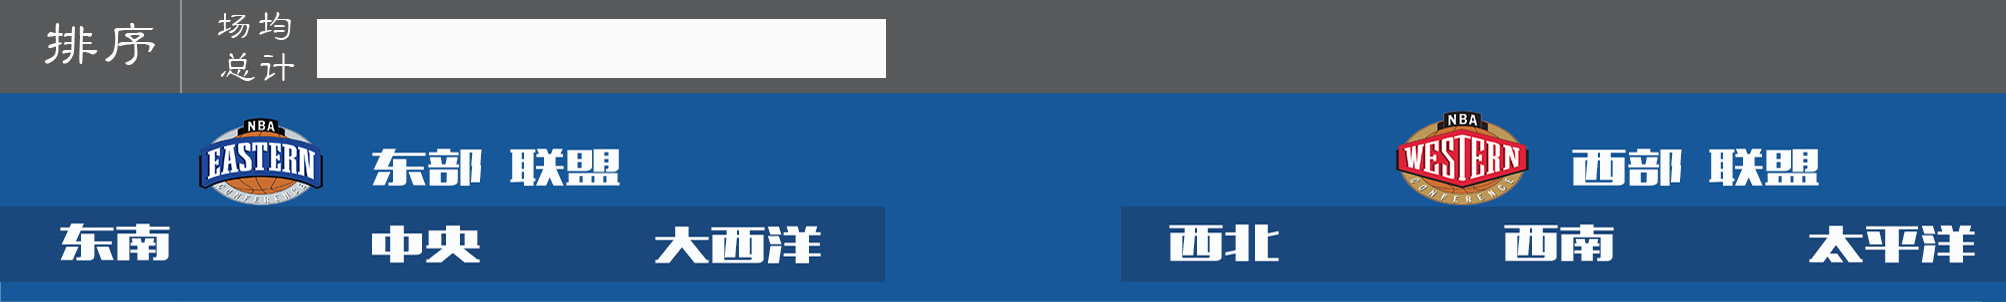
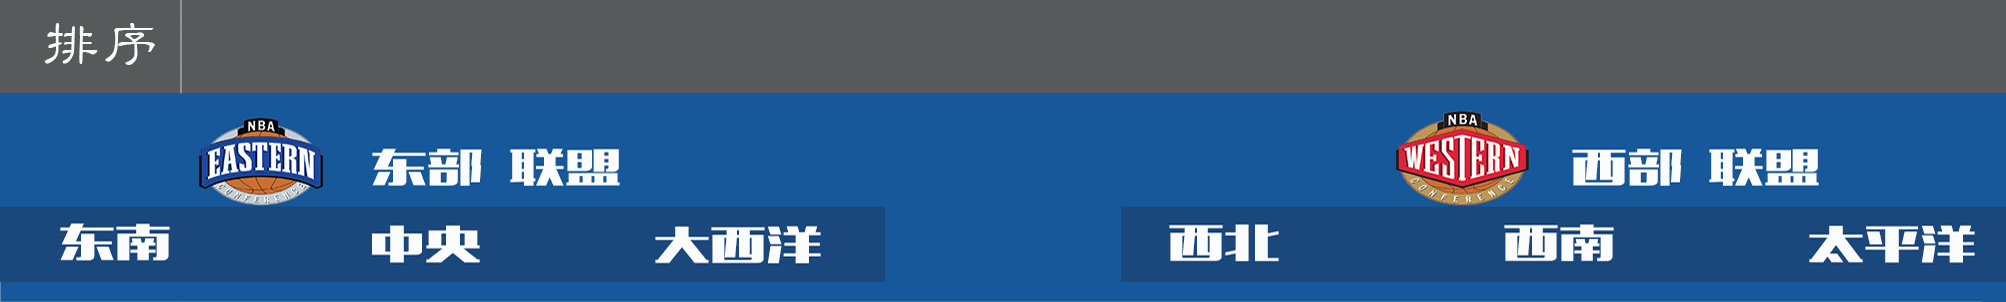
迭代一完结

Changed region(s): [[0.0927, 0.0596, 0.4636, 0.2682]]

diff --git a/src/com/kmno4/presentation/TeamSelectionPanel.java b/src/com/kmno4/presentation/TeamSelectionPanel.java
@@ -2,10 +2,11 @@ package com.kmno4.presentation;
 
 import java.awt.Color;
 import java.awt.Graphics;
+import java.awt.event.ActionEvent;
+import java.awt.event.ActionListener;
 import java.awt.event.MouseEvent;
 import java.awt.event.MouseListener;
 import java.util.ArrayList;
-import java.util.List;
 
 import javax.swing.JComboBox;
 import javax.swing.JLabel;
@@ -18,7 +19,7 @@ import PO.TeamPO;
 import com.kmno4.common.Config;
 
 @SuppressWarnings("serial")
-public class TeamSelectionPanel extends JPanel implements MouseListener{
+public class TeamSelectionPanel extends JPanel implements MouseListener,ActionListener{
 
 	private boolean isAvg=true;
 
@@ -41,14 +42,16 @@ public class TeamSelectionPanel extends JPanel implements MouseListener{
 		cb_total_data.setBounds(127, 11, 150, 27);
 		this.add(cb_avg_data);
 		this.add(cb_total_data);
-		cb_avg_data.setVisible(true);
+		cb_avg_data.setVisible(false);
 		cb_total_data.setVisible(false);
+		cb_total_data.addActionListener(this);
+		cb_avg_data.addActionListener(this);
 		
 		total_sort=new JLabel("总计");
-		total_sort.setBounds(85, 11, 41, 16);
+		total_sort.setBounds(85, 5, 40, 15);
 		total_sort.addMouseListener(this);
 		avg_sort=new JLabel("场均");
-		avg_sort.setBounds(85, 26, 41, 16);
+		avg_sort.setBounds(85, 20, 40, 15);
 		avg_sort.addMouseListener(this);
 		add(avg_sort);
 		add(total_sort);
@@ -81,18 +84,6 @@ public class TeamSelectionPanel extends JPanel implements MouseListener{
 			showTotal();
 		}if(e.getSource()==avg_sort){
 			showAvg();
-		}if(e.getSource()==cb_total_data){
-			//总数据
-			String data=cb_total_data.getSelectedItem().toString();
-			TeamData dataType=TransferSortHelper.StringToDataTypeForTeam(data);
-			ArrayList<TeamPO> teams=MainFrame.mainFrame.bl.sortTeamsOf13_14ByComprehension("total", dataType);
-			MainFrame.mainFrame.topTabPanel.refreshTeamTable(teams);
-		}if(e.getSource()==cb_avg_data){
-			//场均数据
-			String data=cb_avg_data.getSelectedItem().toString();
-			TeamData dataType=TransferSortHelper.StringToDataTypeForTeam(data);
-			ArrayList<TeamPO> teams=MainFrame.mainFrame.bl.sortTeamsOf13_14ByComprehension("avg", dataType);
-			MainFrame.mainFrame.topTabPanel.refreshTeamTable(teams);
 		}
 	}
 
@@ -118,5 +109,23 @@ public class TeamSelectionPanel extends JPanel implements MouseListener{
 	public void mouseExited(MouseEvent e) {
 		// TODO Auto-generated method stub
 		
+	}
+
+	@Override
+	public void actionPerformed(ActionEvent e) {
+		// TODO Auto-generated method stub
+		if(e.getSource()==cb_total_data){
+			//总数据
+			String data=cb_total_data.getSelectedItem().toString();
+			TeamData dataType=TransferSortHelper.StringToDataTypeForTeam(data);
+			ArrayList<TeamPO> teams=MainFrame.mainFrame.bl.sortTeamsOf13_14ByComprehension("total", dataType);
+			MainFrame.mainFrame.topTabPanel.refreshTeamTable(teams);
+		}if(e.getSource()==cb_avg_data){
+			//场均数据
+			String data=cb_avg_data.getSelectedItem().toString();
+			TeamData dataType=TransferSortHelper.StringToDataTypeForTeam(data);
+			ArrayList<TeamPO> teams=MainFrame.mainFrame.bl.sortTeamsOf13_14ByComprehension("avg", dataType);
+			MainFrame.mainFrame.topTabPanel.refreshTeamTable(teams);
+		}
 	}
 }

diff --git a/src/com/kmno4/presentation/SelectionPanel.java b/src/com/kmno4/presentation/SelectionPanel.java
@@ -143,9 +143,9 @@ public class SelectionPanel extends JPanel implements MouseListener,
 				.setBounds(200, 45, Config.SORT_WIDTH * 2, Config.SORT_HEIGHT);
 		avg_sort.addMouseListener(this);
 		total_sort.addMouseListener(this);
-		cb_avg_sort_data.setBounds(15, 70, Config.SORT_WIDTH * 4,
+		cb_avg_sort_data.setBounds(15, 70, Config.SORT_WIDTH * 8,
 				Config.SORT_HEIGHT);
-		cb_total_sort_data.setBounds(15, 70, Config.SORT_WIDTH * 4,
+		cb_total_sort_data.setBounds(15, 70, Config.SORT_WIDTH *8,
 				Config.SORT_HEIGHT);
 		cb_avg_sort_data.addMouseListener(this);
 		cb_total_sort_data.addMouseListener(this);
